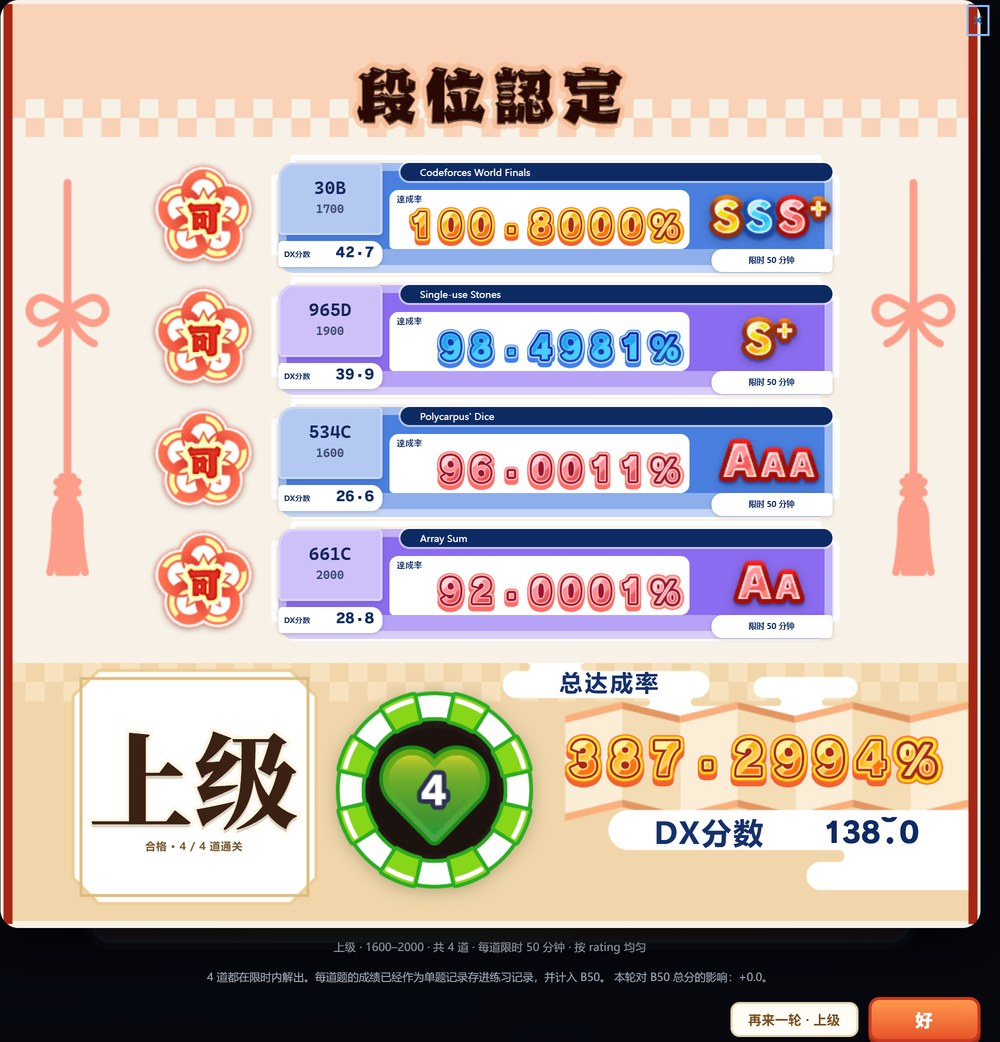
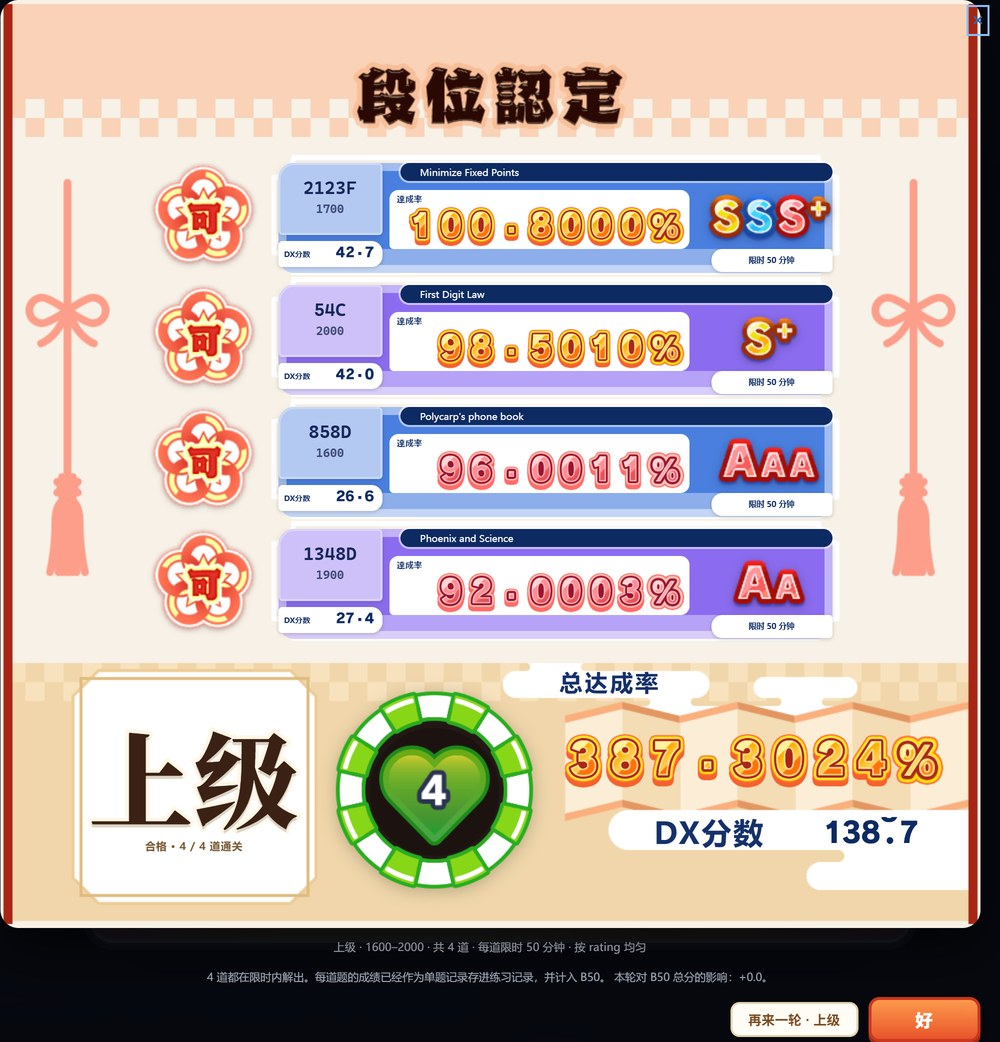
fix: stop the pushed-down decimal from bleeding, official score colours, export the original card art
- **小数点下压后上面露出半个字**：背景图整块往下挪，把**上一格**的下半截带进了这一格。
  只有被压过的那一格需要裁剪，所以给那一格单独加 `overflow: hidden`（其余格子不动，
  免得把描边层裁掉）—— DX 数字本来就不带描边，安全。
- **达成率分色改成用户给的官方口径**：**≥97% 金、80~96.99% 红、<80% 蓝**（低分段是蓝，
  不是红；原来按「高金/中蓝/低红」写的，红蓝对调了）。E2E 的期望值跟着改；那一轮的
  合成用例只能落在金/红两档（评分曲线只在 ≥97% 段可逆，反推不出 <80% 的秒数）。
- **达成率数字右对齐**：满 100 的那串右端固定，不到 100 的少一位数就少在左边。
- 新增 `scripts/export-original-card.py`：把**原版**乐曲卡片素材原样导到
  `docs/images/original-card/`（`UI_CMN_RSL_KopMBase_*` 五张难度边框 640×140、
  `UI_DNM_Result_musicBase_01`、`UI_CMN_RSL_JaketTrack` / `JaketTrackNo_0` 等），
  供逐像素对照。另存 `docs/images/dan-card.png`：当前渲染的第 1 张卡单独裁出来。

E2E / 像素探针 / 314 个单测全绿。

diff --git a/public/dan.js b/public/dan.js
@@ -703,13 +703,13 @@ const PERCENT_ART = { gold: 'score-per-gold.png', blue: 'score-per-blue.png', re
 
 /**
  * 达成率取哪一档颜色 —— 原作就是按分数换 `UI_NUM_Score_0001111_*` 那一套。
- * 官方那套只有三色（Base 是空图集，「%」字形也只有三张），所以档位就是三档，
- * 边界取原作评级：100% 以上（SSS/SSS+）金、97% 以上（S～SS+）蓝、再低红。
+ * 三档的界限（2026-10-10 用户给的官方口径）：**97% 以上金、80% 以上红、再低蓝**。
+ * 注意低分段是**蓝**、不是红 —— 别按「高金/中蓝/低红」的直觉写。
  */
 function scoreTone(achievement) {
-  if (achievement >= 100) return 'gold';
-  if (achievement >= 97) return 'blue';
-  return 'red';
+  if (achievement >= 97) return 'gold';
+  if (achievement >= 80) return 'red';
+  return 'blue';
 }
 
 /** 达成率数字 + 官方「%」字形。 */
@@ -794,6 +794,9 @@ function numText(text, fontKey, height, color, opts = {}) {
     // （那一格墨迹底线在格高里的比例）把它压下去 —— 字体自己的字形，只是摆到该在的位置。
     const dy = ch === '.' && font.dotBaseline ? (font.baseline - font.dotBaseline) * height : 0;
     const pos = `${-sx * scale}px ${-sy * scale + dy}px`;
+    // 背景图整块往下挪，会把**上一格**的下半截带进这一格里（用户看到的就是这个）。
+    // 只给被压过的小数点那一格加裁剪 —— 其余格子不动，免得把描边层裁掉。
+    if (dy) cell.style.overflow = 'hidden';
     cell.style.width = `${font.cell[0] * scale}px`;
     if (font.outline && opts.outline !== false) {
       const outline = el('b', 'dan-num-outline');

diff --git a/scripts/export-original-card.py b/scripts/export-original-card.py
@@ -1,0 +1,79 @@
+#!/usr/bin/env python3
+"""把**原版**的乐曲卡片素材原样导出来，供对照。
+
+用途：现在卡片的边框是照着官方贴图的版式用 CSS 画的（`.dan-track-frame`），用户要直接看
+原版素材本身。这里把逐题行那一圈的原图导到 `docs/images/original-card/`，并顺手把当前渲染
+出来的第 1 张卡裁成一张独立小图 `docs/images/dan-card.png`。
+
+用法：
+    python scripts/export-original-card.py "<游戏目录>"     # 含 resources.assets 的那一层
+"""
+from __future__ import annotations
+
+import sys
+from pathlib import Path
+
+import UnityPy
+
+# 逐题行那一圈的原版贴图。`UI_CMN_RSL_KopMBase_*` 就是官方乐曲卡片的边框（640×140，
+# 五种难度各一张，颜色与难度名 BASiC/ADVANCED/EXPERT/MASTER/Re:MASTER 都烘在图里）。
+WANTED = [
+    "UI_CMN_RSL_KopMBase_BSC",
+    "UI_CMN_RSL_KopMBase_ADV",
+    "UI_CMN_RSL_KopMBase_EXP",
+    "UI_CMN_RSL_KopMBase_MST",
+    "UI_CMN_RSL_KopMBase_MST_Re",
+    "UI_CMN_RSL_JacketImage_S",
+    "UI_CMN_RSL_MusicJacket_Base",
+    "UI_CMN_RSL_JaketTrack",
+    "UI_CMN_RSL_JaketTrackNo_0",
+    "UI_CMN_RSL_AllScorekBase",
+    "UI_DNM_Result_musicBase_01",
+    "UI_RSL_AchivementCounter",
+    "UI_DNM_AchivementCounter",
+]
+PREFIXES = ("UI_CMN_RSL_", "UI_DNM_Result_music", "UI_RSL_Achivement", "UI_DNM_Achivement")
+
+
+def main() -> int:
+    if len(sys.argv) < 2:
+        print(__doc__)
+        return 2
+    game = Path(sys.argv[1])
+    out = Path(__file__).resolve().parent.parent / "docs" / "images" / "original-card"
+    out.mkdir(parents=True, exist_ok=True)
+    env = UnityPy.load(str(game / "resources.assets"))
+    saved, extra = [], []
+    for obj in env.objects:
+        if obj.type.name not in ("Texture2D", "Sprite"):
+            continue
+        try:
+            data = obj.read()
+            name = getattr(data, "m_Name", "") or ""
+            if not name:
+                continue
+            if name in WANTED:
+                image = data.image
+                image.save(out / f"{name}.png")
+                saved.append((name, image.size))
+            elif any(name.startswith(p) for p in PREFIXES):
+                extra.append(name)
+        except Exception as exc:  # 有的贴图数据在别的 bundle 里，读不到就跳过
+            if getattr(obj, "read", None):
+                try:
+                    name = obj.read().m_Name
+                except Exception:
+                    name = "?"
+                if name in WANTED:
+                    print(f"  跳过 {name}：{type(exc).__name__}")
+    for name, size in sorted(saved):
+        print(f"  导出 {name}  {size[0]}x{size[1]}")
+    if extra:
+        print("同前缀但未导出的（想看哪个再说）：")
+        for name in sorted(extra):
+            print(f"    {name}")
+    return 0
+
+
+if __name__ == "__main__":
+    raise SystemExit(main())
